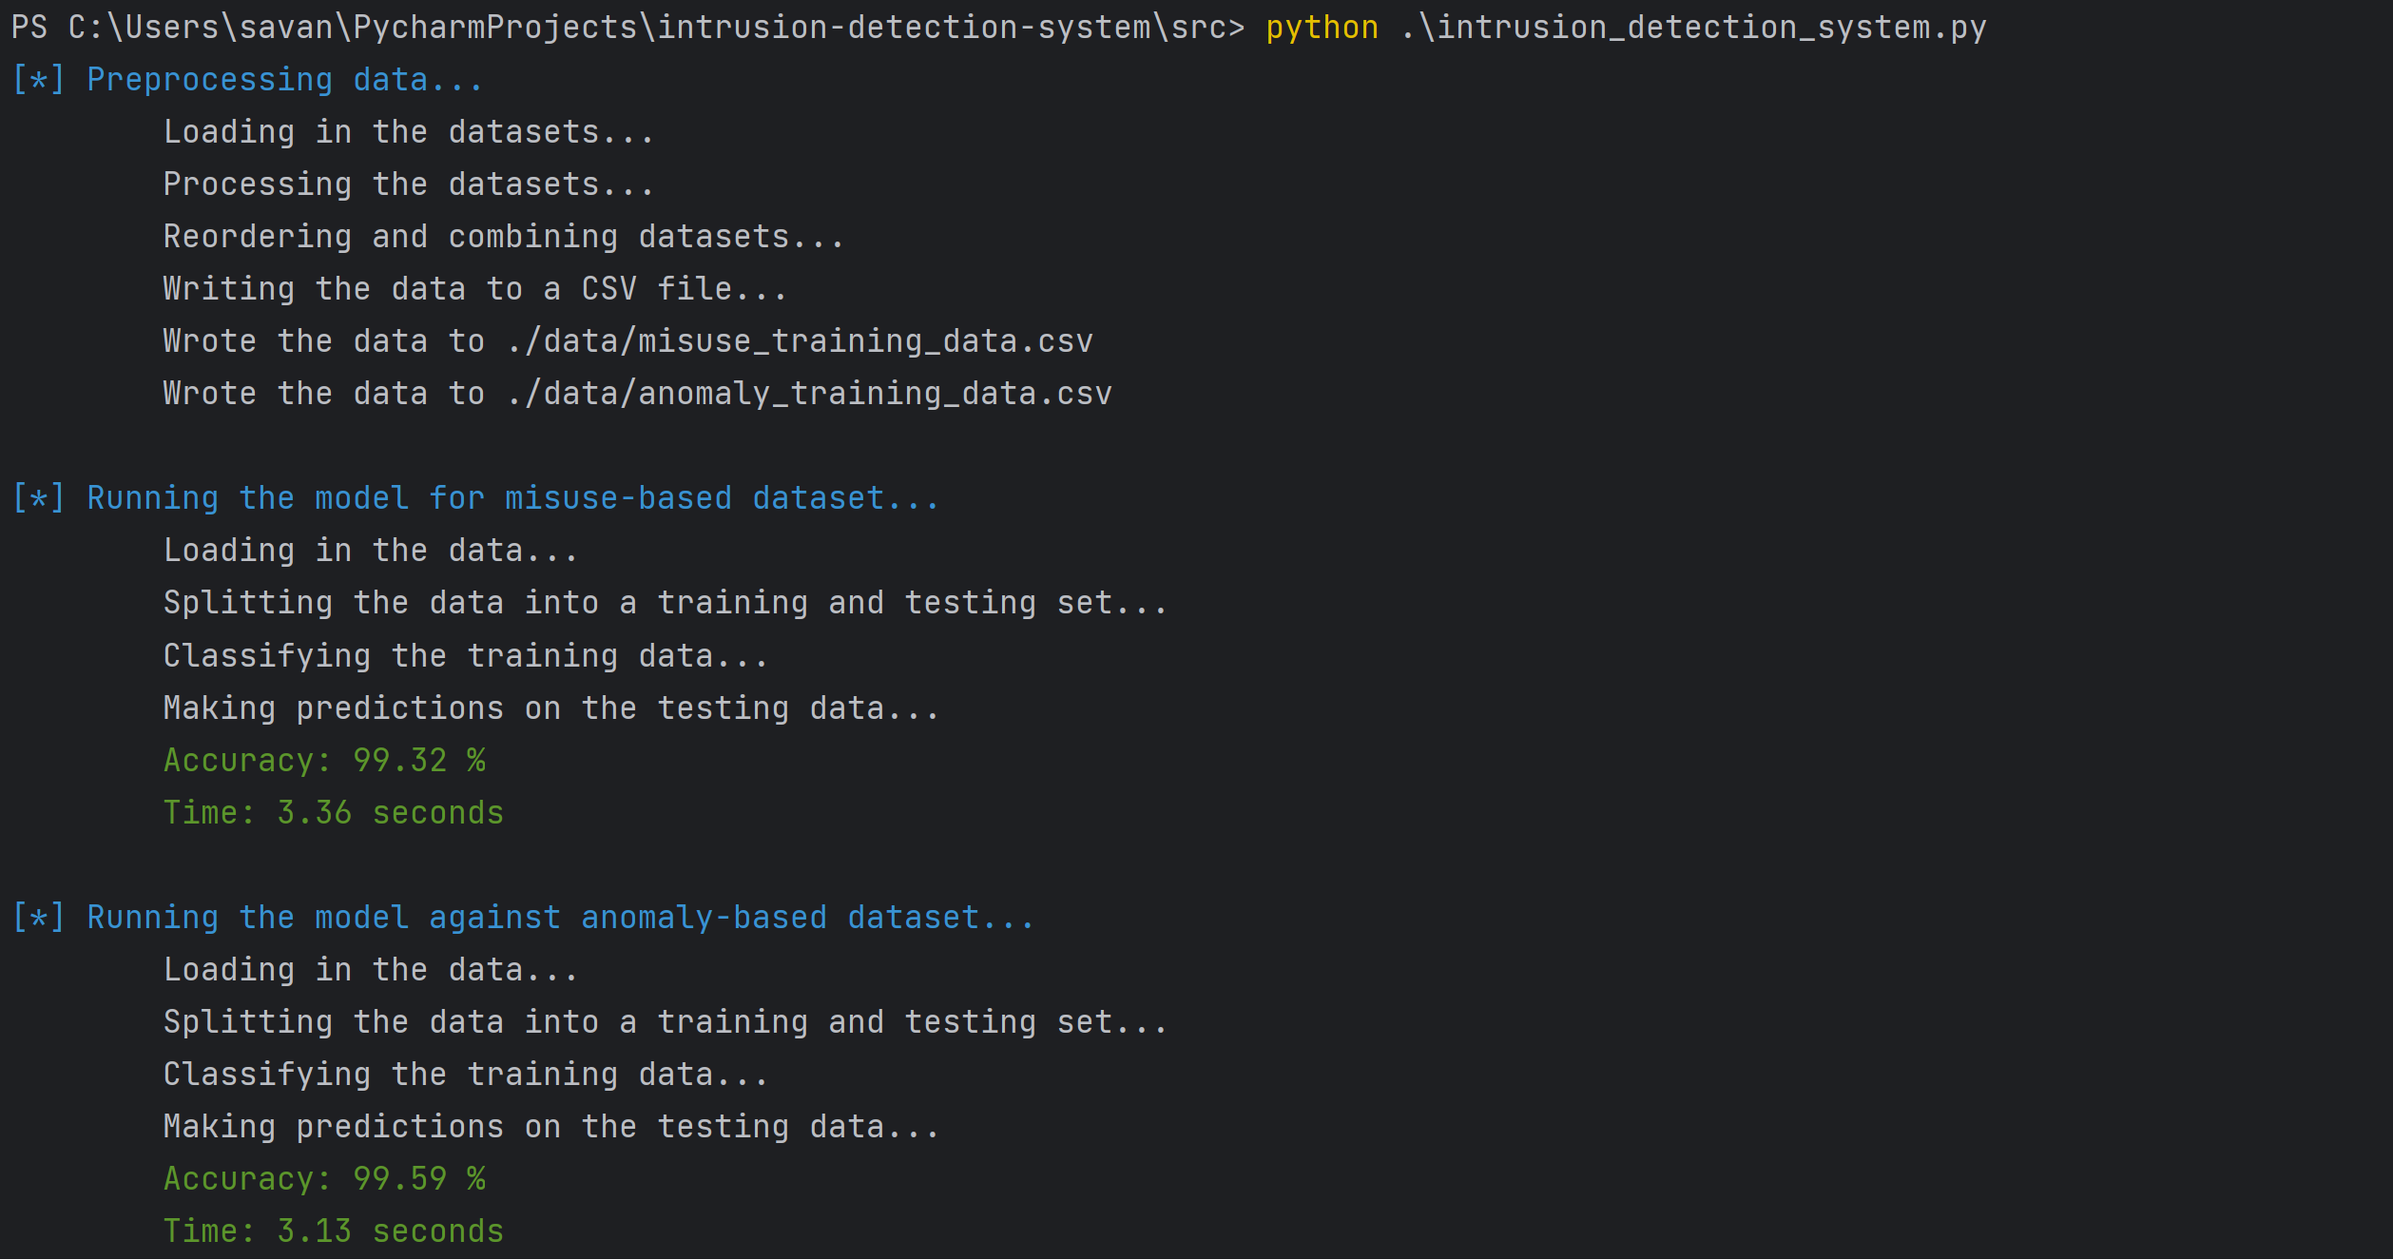
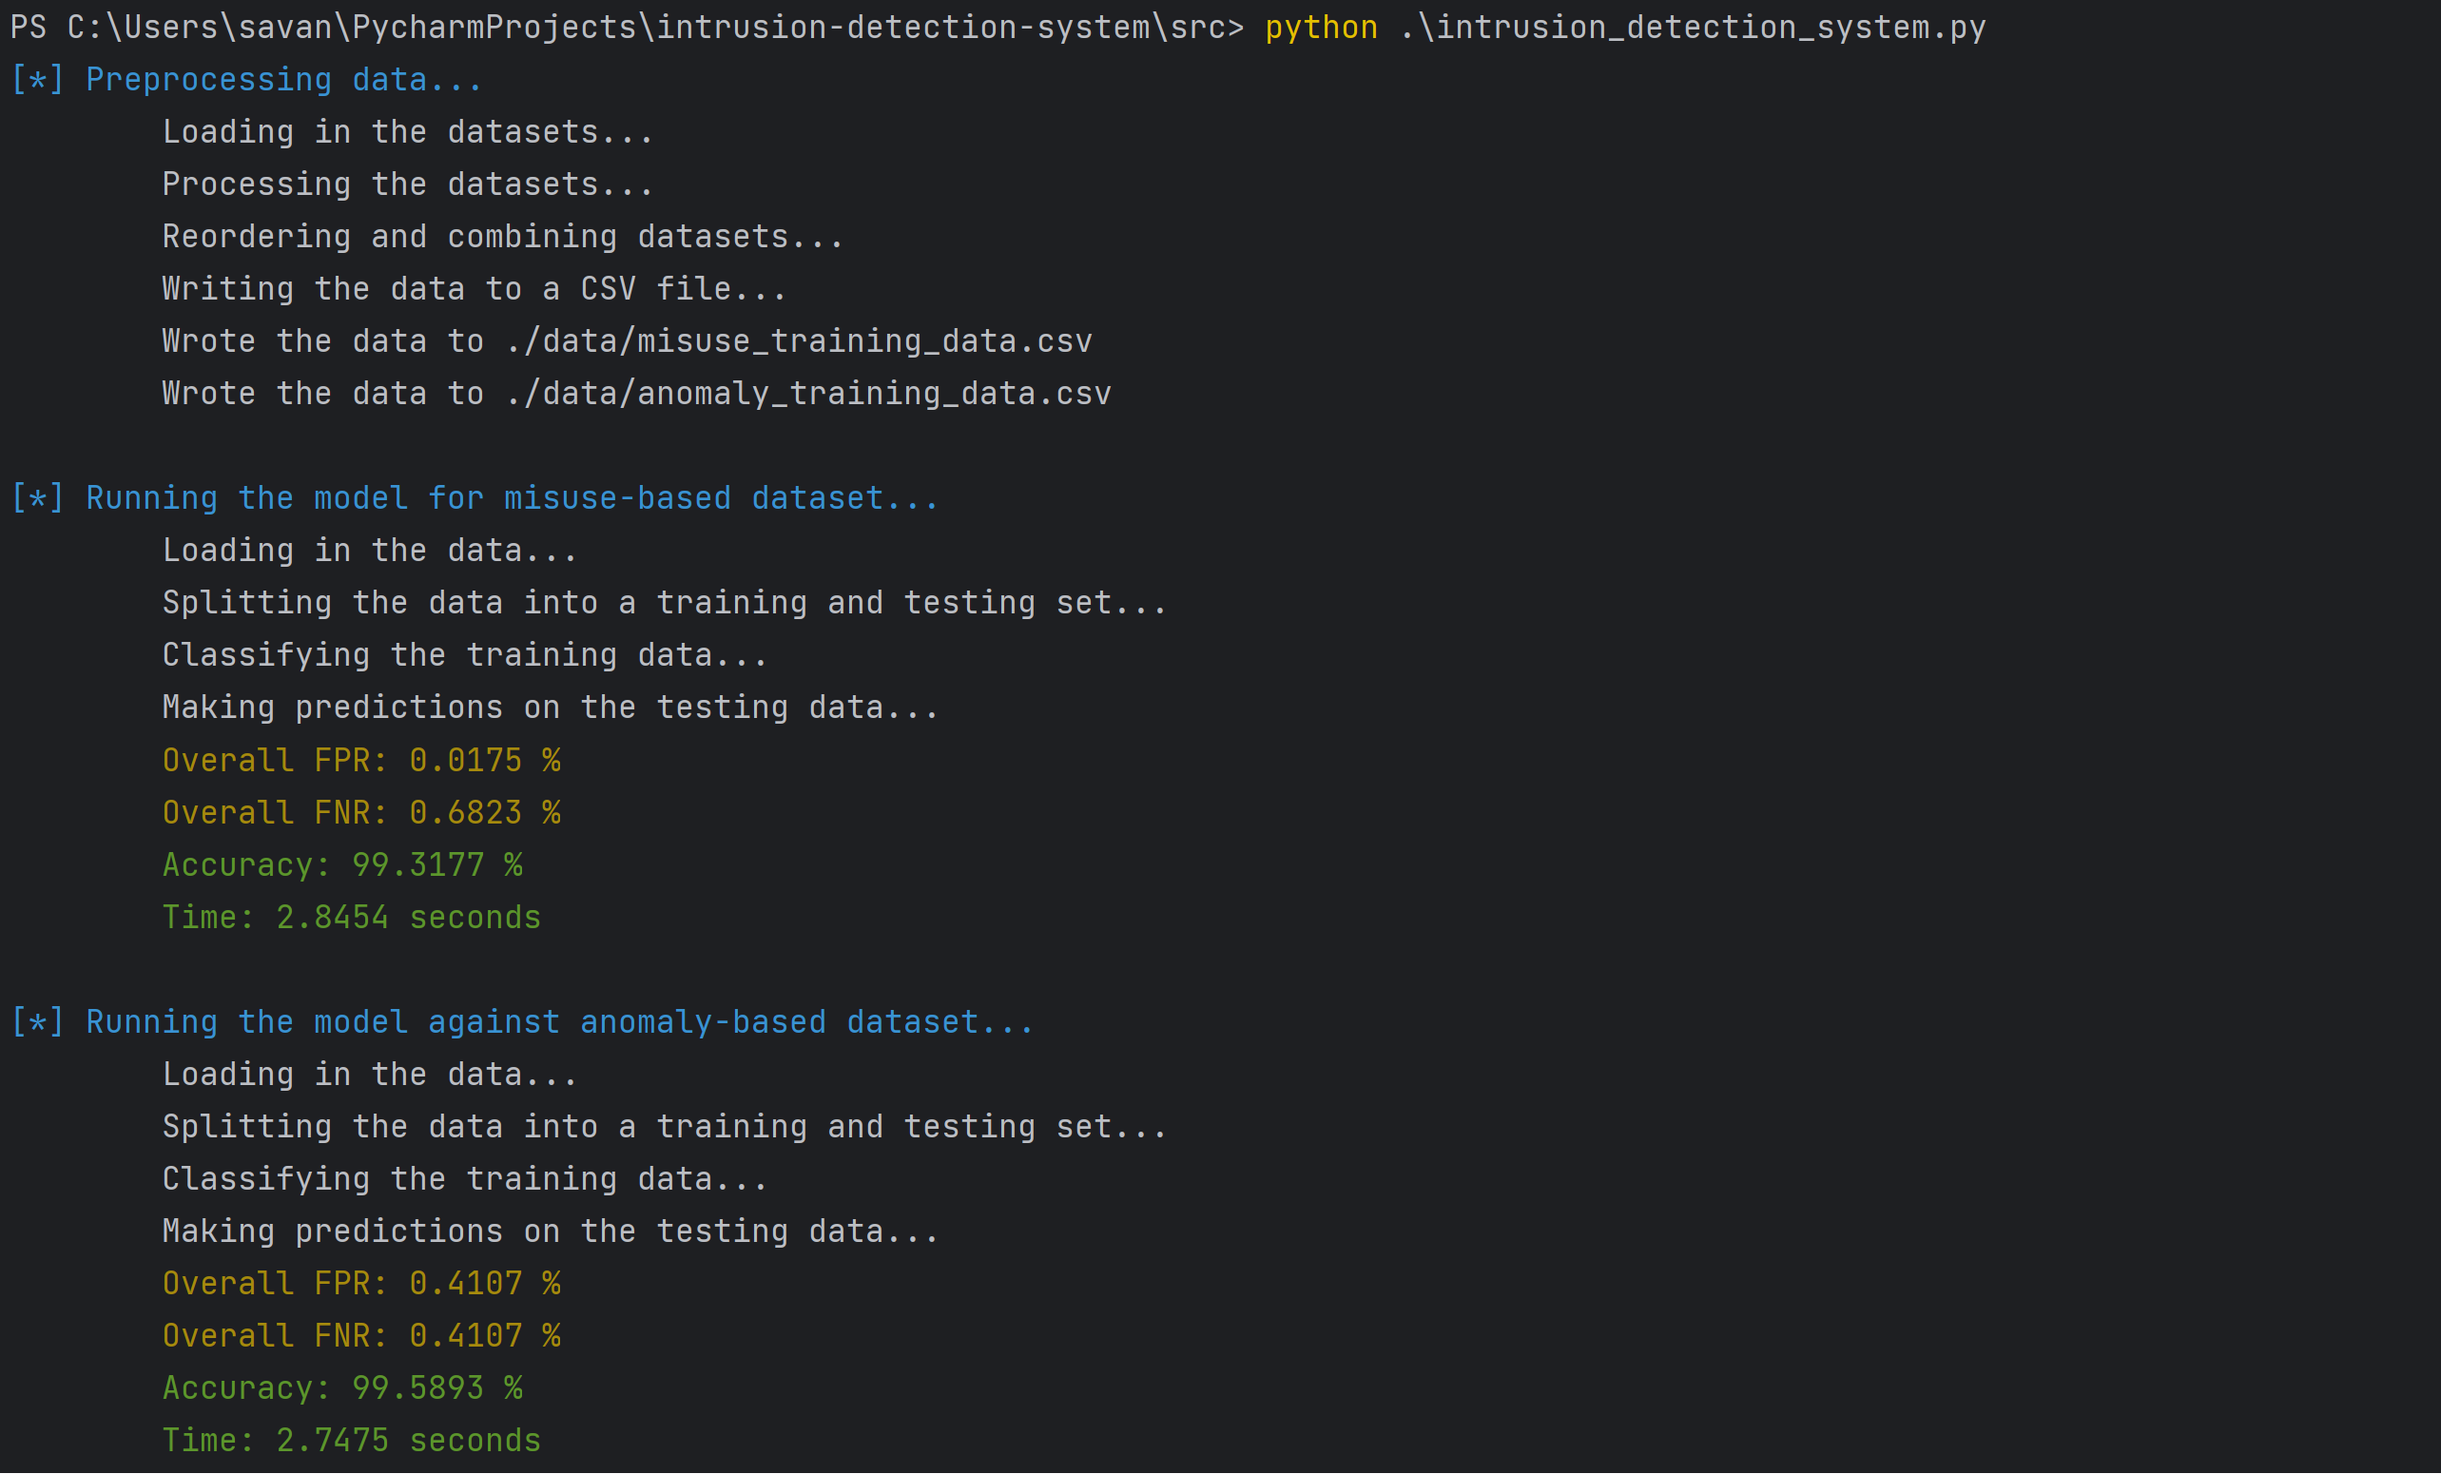
Updated calculations for FPR and FNR

Changed region(s): [[0.0, 0.3094, 0.4648, 0.6498], [0.0, 0.6808, 0.4648, 0.9902], [0.0, 0.0, 0.8367, 0.2785]]

diff --git a/src/decision_tree.py b/src/decision_tree.py
@@ -16,10 +16,58 @@ from sklearn.metrics import confusion_matrix
 from termcolor import colored
 
 
-def decision_tree(filename):
+def calculate_rates(y, y_test, y_pred, dataset):
+    """
+    Calculates the rates of the dataset.
+    :param y: (String[]) the columns in the dataset
+    :param y_test: (String[]) the test data
+    :param y_pred: (String[]) the predicted data
+    :param dataset: (String) the dataset
+    :return: (Tuple) Overall FPR and FNR
+    """
+    with open('./output/{}_rates.txt'.format(dataset), 'w') as file:
+        # calculate confusion matrix
+        np.seterr(invalid='ignore')
+        labels = list(set(y.to_list()))
+        conf_matrix = confusion_matrix(y_test, y_pred, labels=labels)
+
+        # export confusion matrix to CSV file
+        df_confusion = pd.DataFrame(conf_matrix, columns=labels, index=labels)
+        df_confusion.to_csv('./output/{}_confusion_matrix.csv'.format(dataset))
+
+        # calculate FP, FN, TP, and TNs
+        FP = conf_matrix.sum(axis=0) - np.diag(conf_matrix)
+        FN = conf_matrix.sum(axis=1) - np.diag(conf_matrix)
+        TP = np.diag(conf_matrix)
+        TN = np.sum(np.concatenate(conf_matrix)) - (FP + FN + TP)
+
+        # calculate rates
+        FPR = FP / (FP + TN)
+        FNR = FN / (FN + TP)
+        sum_FP = sum_FP_TN = sum_FN = sum_FN_TP = 0
+
+        # enumerate through each class
+        for i, label in enumerate(labels):
+            file.write(f"{label:<15}: \tFPR: {round(FPR[i] * 100, 2):<5.2f}%  ({FP[i]}/{FP[i] + TN[i]})"
+                       f"\t\tFNR: {round(FNR[i] * 100, 2):<7.2f}%  ({FN[i]}/{FN[i] + TP[i]})\n")
+            sum_FP += FP[i]
+            sum_FP_TN += (FP[i] + TN[i])
+            sum_FN += FN[i]
+            sum_FN_TP += (FP[i] + TP[i])
+
+        # calculate overall FPR and FNR
+        overall_FPR = (sum_FP / sum_FP_TN) * 100
+        overall_FNR = (sum_FN / sum_FN_TP) * 100
+        file.write("\nOverall FPR: {:.4f} %\n".format(overall_FPR))
+        file.write("Overall FNR: {:.4f} %\n".format(overall_FNR))
+
+        return overall_FPR, overall_FNR
+
+
+def decision_tree(dataset):
     """
     Classifies a given dataset based on the 'class' target variable.
-    :param filename: (String) the dataset filename
+    :param dataset: (String) the dataset name
     :return: None
     """
     # start the timer
@@ -27,7 +75,7 @@ def decision_tree(filename):
 
     # load the training data
     print("\tLoading in the data...")
-    data = pd.read_csv(filename)
+    data = pd.read_csv('../data/{}_training_data.csv'.format(dataset))
 
     # split the training data into features and the target variable
     X = data.drop('class', axis=1)
@@ -47,24 +95,14 @@ def decision_tree(filename):
     # make predictions on the test data
     print("\tMaking predictions on the testing data...")
     y_pred = classifier.predict(X_test)
+    end = time.time()
+
+    # calculate false positive and false negative rates
+    rates = calculate_rates(y, y_test, y_pred, dataset)
+    print(colored("\tOverall FPR: {:.4f} %".format(np.mean(rates[0])), "yellow"))
+    print(colored("\tOverall FNR: {:.4f} %".format(np.mean(rates[1])), "yellow"))
 
     # calculate the accuracy of the model
     accuracy = accuracy_score(y_test, y_pred)
-    end = time.time()
-    print(colored("\tAccuracy: {:.2f} %".format(accuracy * 100), "green"))
-    print(colored("\tTime: {:.2f} seconds\n".format(end - start), "green"))
-
-    # Calculate false positves and false negatives for each category
-    labels = list(set(y.to_list()))
-    CM = confusion_matrix(y_test, y_pred, labels=labels)
-
-    FP = CM.sum(axis=0) - np.diag(CM)
-    FN = CM.sum(axis=1) - np.diag(CM)
-    TP = np.diag(CM)
-    TN = np.sum(np.concatenate(CM)) - (FP + FN + TP)
-    FPR = FP/(FP+TN)
-    FNR = FN/(TP+FN)
-
-    for i, label in enumerate(labels):
-        print(f"{label}: \tFalse positives: {round(FPR[i] * 100, 2)}%, {FP[i]} / {FP[i] + TN[i]}, "
-              f"\tFalse negatives: {round(FNR[i] * 100, 2)}%, {FN[i]} / {TP[i] + FN[i]}")
+    print(colored("\tAccuracy: {:.4f} %".format(accuracy * 100), "green"))
+    print(colored("\tTime: {:.4f} seconds\n".format(end - start), "green"))

diff --git a/src/intrusion_detection_system.py b/src/intrusion_detection_system.py
@@ -22,11 +22,11 @@ def main():
 
     # run the decision tree classifier for misuse detection
     print(colored("[*] Running the model for misuse-based dataset...", "blue"))
-    decision_tree('../data/misuse_training_data.csv')
+    decision_tree("misuse")
 
     # run the decision tree classifier for anomaly detection
     print(colored("[*] Running the model against anomaly-based dataset...", "blue"))
-    decision_tree('../data/anomaly_training_data.csv')
+    decision_tree("anomaly")
 
 
 if __name__ == "__main__":

diff --git a/README.md b/README.md
@@ -24,6 +24,12 @@ Intrusion Detection System
         │   preprocessing.py
         │   requirements.txt        
         │
+        └───output
+            │   anomaly_confusion_matrix.csv*
+            │   anomaly_rates.txt*
+            │   misuse_confusion_matrix.csv*
+            │   misuse_rates.txt*
+            │
 ```
 
 ## Getting Started
